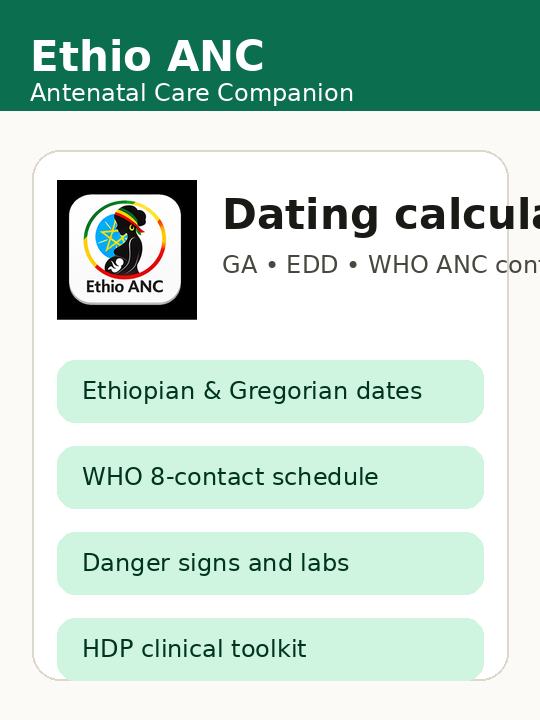
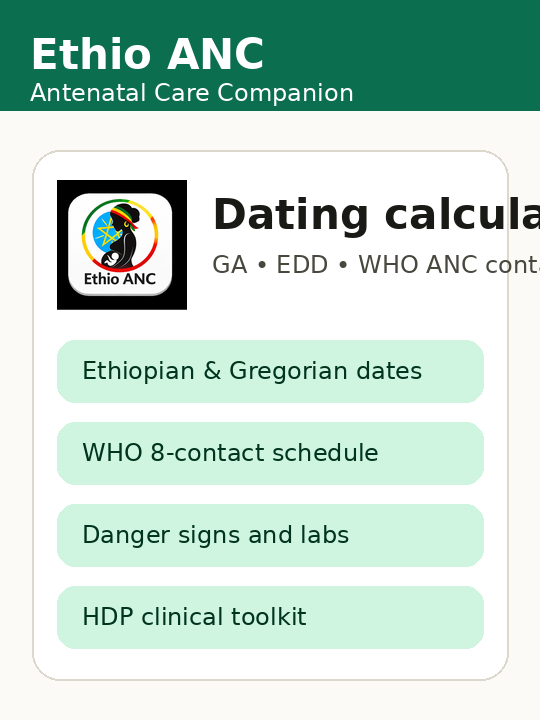
Add files via upload

diff --git a/sw.js b/sw.js
@@ -1,48 +1,7 @@
-const CACHE_NAME = 'medical-app-ethio-anc-v2-cache-03';
+const CACHE_NAME = 'medical-app-ethio-anc-v2-cache-05';
 const BASE_PATH = '/Medical-App/';
 const OFFLINE_URL = BASE_PATH + 'offline.html';
-const CORE_ASSETS = [
-  BASE_PATH,
-  BASE_PATH + 'index.html',
-  BASE_PATH + 'manifest.json',
-  BASE_PATH + 'offline.html',
-  BASE_PATH + 'icons/favicon-32x32.png',
-  BASE_PATH + 'icons/apple-touch-icon.png',
-  BASE_PATH + 'icons/icon-192x192.png',
-  BASE_PATH + 'icons/icon-512x512.png',
-  BASE_PATH + 'icons/maskable-192x192.png',
-  BASE_PATH + 'icons/maskable-512x512.png',
-  BASE_PATH + 'screenshots/screenshot-mobile.png',
-  BASE_PATH + 'screenshots/screenshot-wide.png'
-];
-
-self.addEventListener('install', event => {
-  event.waitUntil(caches.open(CACHE_NAME).then(cache => cache.addAll(CORE_ASSETS)).then(() => self.skipWaiting()));
-});
-
-self.addEventListener('activate', event => {
-  event.waitUntil(caches.keys().then(keys => Promise.all(keys.filter(key => key !== CACHE_NAME).map(key => caches.delete(key)))).then(() => self.clients.claim()));
-});
-
-self.addEventListener('fetch', event => {
-  const request = event.request;
-  if (request.method !== 'GET') return;
-  if (request.mode === 'navigate') {
-    event.respondWith(
-      fetch(request).then(response => {
-        const copy = response.clone();
-        caches.open(CACHE_NAME).then(cache => cache.put(BASE_PATH + 'index.html', copy));
-        return response;
-      }).catch(() => caches.match(BASE_PATH + 'index.html').then(response => response || caches.match(OFFLINE_URL)))
-    );
-    return;
-  }
-  event.respondWith(
-    caches.match(request).then(cached => cached || fetch(request).then(response => {
-      if (response && response.status === 200) {
-        caches.open(CACHE_NAME).then(cache => cache.put(request, response.clone()));
-      }
-      return response;
-    }).catch(() => cached))
-  );
-});
+const CORE_ASSETS = [BASE_PATH, BASE_PATH+'index.html', BASE_PATH+'manifest.json', BASE_PATH+'offline.html', BASE_PATH+'icons/icon-192x192.png', BASE_PATH+'icons/icon-512x512.png', BASE_PATH+'icons/maskable-512x512.png', BASE_PATH+'screenshots/screenshot-mobile.png'];
+self.addEventListener('install', e => e.waitUntil(caches.open(CACHE_NAME).then(c => c.addAll(CORE_ASSETS)).then(() => self.skipWaiting())));
+self.addEventListener('activate', e => e.waitUntil(caches.keys().then(keys => Promise.all(keys.filter(k => k !== CACHE_NAME).map(k => caches.delete(k)))).then(() => self.clients.claim())));
+self.addEventListener('fetch', e => { const r=e.request; if(r.method!=='GET') return; if(r.mode==='navigate'){ e.respondWith(fetch(r).catch(()=>caches.match(BASE_PATH+'index.html').then(x=>x||caches.match(OFFLINE_URL)))); return;} e.respondWith(caches.match(r).then(c=>c||fetch(r).then(res=>{ if(res&&res.status===200)caches.open(CACHE_NAME).then(cache=>cache.put(r,res.clone())); return res;}).catch(()=>c))); });

diff --git a/offline.html b/offline.html
@@ -1,2 +1,1 @@
-<!doctype html>
-<html lang="en"><head><meta charset="utf-8"><meta name="viewport" content="width=device-width,initial-scale=1"><title>Ethio ANC Offline</title><meta name="theme-color" content="#0B6E4F"><style>body{font-family:system-ui;margin:0;min-height:100vh;display:grid;place-items:center;background:#FBFAF6;color:#191A15;padding:24px}.card{max-width:520px;background:#fff;border:1px solid #DCD8CB;border-radius:22px;padding:24px;box-shadow:0 6px 18px rgba(0,0,0,.08)}h1{color:#0B6E4F}.btn{display:inline-block;background:#0B6E4F;color:white;padding:10px 16px;border-radius:999px;text-decoration:none;font-weight:700}</style></head><body><main class="card"><h1>Ethio ANC is offline</h1><p>Reconnect once, then reopen the app.</p><a class="btn" href="/Medical-App/">Open Ethio ANC</a></main></body></html>
+<!doctype html><html><head><meta charset="utf-8"><meta name="viewport" content="width=device-width,initial-scale=1"><title>Ethio ANC Offline</title></head><body><h1>Ethio ANC is offline</h1><p>Reconnect and reopen the app.</p><a href="/Medical-App/">Open Ethio ANC</a></body></html>

diff --git a/index.html b/index.html
@@ -8,7 +8,7 @@
 <meta name="description" content="Antenatal care calculator and clinical reference"/>
 <!-- PWA / APK packaging setup for GitHub Pages project path: /Medical-App/ -->
 <link rel="canonical" href="https://tamiruabera.github.io/Medical-App/" />
-<link rel="manifest" href="/Medical-App/manifest.json" crossorigin="use-credentials" />
+<link rel="manifest" href="/Medical-App/manifest.json" />
 <link rel="icon" type="image/png" sizes="32x32" href="/Medical-App/icons/favicon-32x32.png" />
 <link rel="icon" type="image/png" sizes="192x192" href="/Medical-App/icons/icon-192x192.png" />
 <link rel="apple-touch-icon" sizes="180x180" href="/Medical-App/icons/apple-touch-icon.png" />

diff --git a/README.md b/README.md
@@ -1,39 +1,15 @@
-# Medical-App PWABuilder icon-fixed package
+# Medical-App PWABuilder information items fixed
 
-This version fixes PWABuilder errors related to:
-
-- icon MIME/type declarations
-- icon size declarations
-- shortcut icon links
-- shortcut icon dimensions
-- missing screenshots warning
-
-Upload the contents of this folder directly into the root of:
-
+Upload the CONTENTS of this folder to the root of your GitHub repository:
 https://github.com/tamiruabera/Medical-App
 
-Required structure:
+This version specifically addresses the PWABuilder information items:
+- prefer_related_applications: false
+- related_applications with Android package ID: com.tamiruabera.ethioanc
+- iarc_rating_id placeholder
+- display_override
 
-```text
-Medical-App/
-├── index.html
-├── manifest.json
-├── sw.js
-├── offline.html
-├── README.md
-├── .nojekyll
-├── icons/
-└── screenshots/
-```
+Important: iarc_rating_id is a placeholder. For final store submission, replace it with the real IARC ID provided during store rating submission.
 
-Then test:
-
-- https://tamiruabera.github.io/Medical-App/manifest.json
-- https://tamiruabera.github.io/Medical-App/icons/icon-192x192.png
-- https://tamiruabera.github.io/Medical-App/icons/icon-512x512.png
-- https://tamiruabera.github.io/Medical-App/icons/maskable-512x512.png
-- https://tamiruabera.github.io/Medical-App/screenshots/screenshot-mobile.png
-
-Scan this exact URL in PWABuilder:
-
+Scan this exact URL:
 https://tamiruabera.github.io/Medical-App/